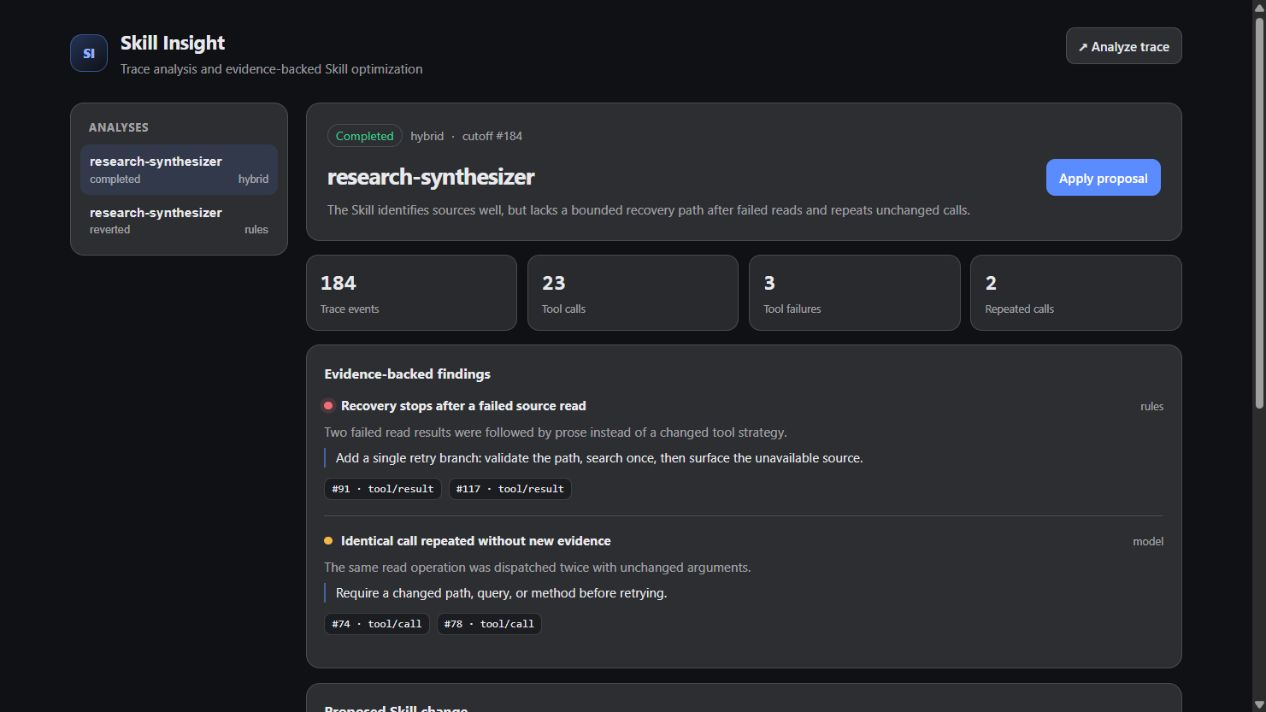
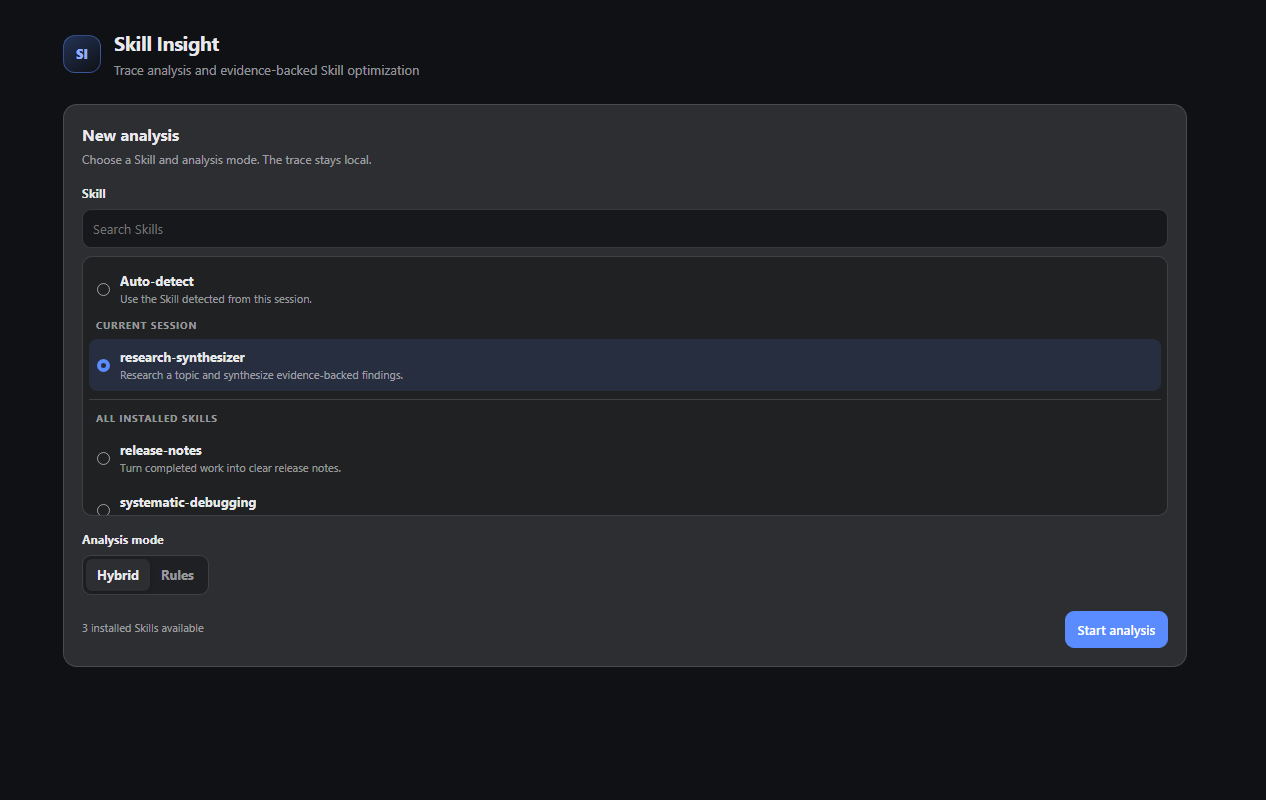
docs: describe visual skill insight workflow

diff --git a/README.md b/README.md
@@ -1,6 +1,6 @@
 # DeepSeek Harness Skill Insight
 
-A local-first, command-triggered plugin for [DeepSeek Harness](https://github.com/deepseek-ai/deepseek-harness). It freezes the current Session trace, finds evidence-backed problems, and can propose a guarded update to the Skill that guided the run.
+A local-first, explicitly triggered plugin for [DeepSeek Harness](https://github.com/deepseek-ai/deepseek-harness). It freezes the current Session trace, finds evidence-backed problems, and can propose a guarded update to the Skill that guided the run.
 
 This is a native Harness bundle, not a VS Code extension. The Web UI appears as a **Skill Insight** tab inside DeepSeek Harness. A future editor adapter can consume the same versioned `report.json` artifacts without changing the analyzer.
 
@@ -10,7 +10,9 @@ This is a native Harness bundle, not a VS Code extension. The Web UI appears as 
 
 ## What it does
 
-- Runs only when you explicitly enter `/skill-insight …`; no background analysis.
+- Runs only when you press **Start analysis** or explicitly enter `/skill-insight …`; no background analysis.
+- Provides a searchable Skill selector that prioritizes Skills used in the current Session and loads the complete installed catalog through the Harness Skills API.
+- Offers Hybrid and Rules analysis modes as visual controls, with Hybrid selected by default.
 - Reads the immutable Session event log up to a frozen sequence cutoff.
 - Redacts secrets, email addresses, and home-directory identities before analysis.
 - Detects repeated tool calls, tool failures, missing recovery, late Skill loading, and a mismatched Skill selection with deterministic rules.
@@ -38,7 +40,7 @@ Harness is still in preview, so its plugin API may change. This package pins the
 ```sh
 npm ci
 npm run package
-dsh plugin --profile web add ./deepseek-harness-skill-insight-0.1.1.tgz
+dsh plugin --profile web add ./deepseek-harness-skill-insight-0.1.2.tgz
 dsh --profile web --dump-config
 dsh --profile web
 ```
@@ -67,7 +69,16 @@ dsh plugin --profile web remove deepseek-harness-skill-insight
 
 ## Use
 
-Let an agent complete or attempt work that invokes a Skill, then enter:
+Let an agent complete or attempt work that invokes a Skill, then open the **Skill Insight** conversation tab:
+
+1. Choose **New analysis**. The form is already open when no previous analysis exists.
+2. Select a current-session Skill or search all installed Skills. One detected Skill is selected automatically; several detected Skills require an explicit choice; no detection uses **Auto-detect**.
+3. Keep **Hybrid** for model-assisted analysis or choose **Rules** for a deterministic, model-free diagnosis.
+4. Press **Start analysis**. The new result is selected automatically when it arrives.
+
+Review the evidence and diff before using the **Apply proposal**, **Revert change**, or cleanup buttons. Visual operations are persisted through Harness's official command lifecycle without adding command cards to the main chat.
+
+The manual CLI remains available for scripting and troubleshooting. Manually entered commands remain visible in the conversation audit trail:
 
 ```text
 /skill-insight analyze
@@ -79,13 +90,13 @@ If the trace contains more than one Skill, select one explicitly:
 /skill-insight analyze --skill my-skill
 ```
 
-For a fully deterministic, model-free diagnosis:
+For a fully deterministic diagnosis from the CLI:
 
 ```text
 /skill-insight analyze --skill my-skill --mode rules
 ```
 
-Open the **Skill Insight** conversation tab to inspect the report. Hybrid analyses can include a proposal; review its evidence and diff before choosing **Apply proposal**. The buttons issue the same auditable commands available in the composer:
+The complete manual command surface is:
 
 | Command | Purpose |
 | --- | --- |

diff --git a/CHANGELOG.md b/CHANGELOG.md
@@ -1,5 +1,14 @@
 # Changelog
 
+## 0.1.2 — 2026-08-15
+
+- Replace the CLI-first dashboard workflow with a single visual analysis form and button-based lifecycle actions.
+- Add searchable installed-Skill discovery through the official Harness Skills API.
+- Prioritize Skills invoked in the current Session, auto-select a single detection, and require a choice when several are present.
+- Add Hybrid/Rules mode controls, duplicate-submit protection, progress, retry, and inline failure states.
+- Hide visual-operation command cards while preserving official durable command events; manually entered CLI commands remain visible.
+- Automatically select newly projected analysis results.
+
 ## 0.1.1 — 2026-08-15
 
 - Add explicit cleanup commands for one analysis and for all active analyses in the current Session.
